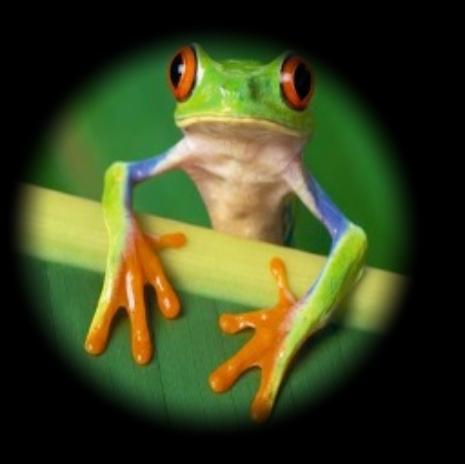
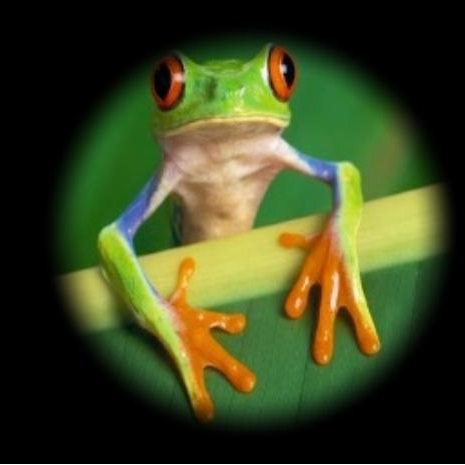
GLSL で画像にフィルタをかけてみるテスト（その１９）

diff --git a/cx20/vpFt/index.html b/cx20/vpFt/index.html
@@ -25,8 +25,8 @@ varying vec2 vTextureCoord;
 
 void main(void) 
 {
-    vec2 uv = gl_FragCoord.xy / resolution.xy;
-    vec4 tex = texture2D(texture, -uv);
+    vec2 uv = vTextureCoord; // gl_FragCoord.xy / resolution.xy;
+    vec4 tex = texture2D(texture, uv);
     vec4 texsound = texture2D(texture, vec2(0.01, 0.25));
     vec2 center = vec2(0.5 + 0.5 * sin(time), 0.5);
     float dist = 1.0 - smoothstep(0.35, 0.45, length(center - uv));
